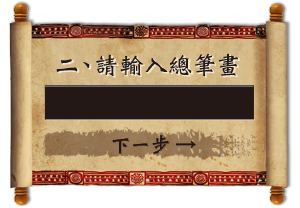
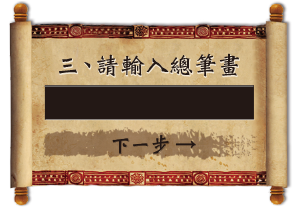
將總筆劃與需要的部件二者順序交換

Changed region(s): [[0.27, 0.2596, 0.81, 0.375], [0.18, 0.2596, 0.27, 0.375]]

diff --git a/kangxi.js b/kangxi.js
@@ -223,12 +223,41 @@ $( document ).ready(function() {
 			show_msg(1);
 			$("#page1").hide();
 			$("#page2").show();
-			$("#input_number").focus();
-			$("#input_number").attr("placeholder","");
+			$("#input_name2").focus();
+			$("#input_name2").attr("placeholder","取單名想請按下一步");
 			active_page = 2;
 			return false;
 	});
 	$("#form2").submit(
+		function() {
+			name2 = $("#input_name2").val();
+			if(name2 == "")
+			{
+				// 沒有第二個字也是可以的
+				num2 = 0;
+			}
+			else
+			{
+				num2 = get_name_num(name2);
+				if(num2 == 0)
+				{
+					show_msg(9);
+					$("#input_name2").val("");
+					$("#input_name2").attr("placeholder","有字不在資料庫中");
+					$("#input_name2").focus();
+					return false;
+				}
+			}
+			
+			$("#page2").hide();
+			$("#page3").show();
+			show_msg(1);
+			$("#input_number").attr("placeholder","");
+			$("#input_number").focus();
+			active_page = 3;
+			return false;
+	});
+	$("#form3").submit(
 		function() {
 			number = $("#input_number").val();
 			if($.isNumeric(number) == false || Math.round(number) != number)
@@ -239,6 +268,7 @@ $( document ).ready(function() {
 				$("#input_number").focus();
 				return false;
 			}
+			
 			/* 因為字數可以不只一個, 所以數字就無法預先判斷範圍了
 			if(number <= num1 + 1)
 			{
@@ -265,34 +295,7 @@ $( document ).ready(function() {
 				return false;
 			}
 			*/
-			$("#page2").hide();
-			$("#page3").show();
-			show_msg(1);
-			$("#input_name2").attr("placeholder","");
-			$("#input_name2").focus();
-			active_page = 3;
-			return false;
-	});
-	$("#form3").submit(
-		function() {
-			name2 = $("#input_name2").val();
-			if(name2 == "")
-			{
-				// 沒有第二個字也是可以的
-				num2 = 0;
-			}
-			else
-			{
-				num2 = get_name_num(name2);
-				if(num2 == 0)
-				{
-					show_msg(9);
-					$("#input_name2").val("");
-					$("#input_name2").attr("placeholder","有字不在資料庫中");
-					$("#input_name2").focus();
-					return false;
-				}
-			}
+			
 			num3 = number - num1 - num2;
 			
 			// 81 是特例, num3 一定要是 number - num1 - num2
@@ -323,8 +326,8 @@ $( document ).ready(function() {
 			if(num3 > 30)
 			{
 				show_msg(9);
-				$("#input_name2").val("");
-				$("#input_name2").attr("placeholder","找不到適合的字");
+				$("#input_number").val("");
+				$("#input_number").attr("placeholder","此數字找不到適合的字");
 				return false;
 			}
 			
@@ -391,6 +394,9 @@ $( document ).ready(function() {
 	$("#menu_2").click(
 		function() {
 		  	// 上方鐵口直斷選單
+		  	$("#message").stop();				// 若是正在秀 "朕知道了" , 要中斷該動畫狀態
+		  	$("#message").css("opacity", 1);	
+		  	
 	  		$(".mainpage").hide();
 	  		show_page1();
 	});
@@ -409,6 +415,8 @@ $( document ).ready(function() {
 			draw_page7();
 	  		$(".mainpage").hide();
 			show_msg(0);
+			$("#page7").stop(false,true);	// 避免此按鈕重覆一直按會造成錯誤
+			$("#img_stick").stop(false,true);
 			show_animate($("#page7"));
 	  		active_page = 7;
 	  		return false;

diff --git a/index.html b/index.html
@@ -30,16 +30,16 @@
     <!-- page 2 ----------------------------------------------------- -->
 	<div id="page2" class="mainpage">
 		<form id="form2" name="form2" method="post" action="">
-			<img id="img_ask_number" src="image/ask_number.png"/>
-		    <input type="text" name="input_number" id="input_number" autofocus>
+			<img id="img_ask_name2" src="image/ask_name2.png"/>
+		    <input type="text" name="input_name2" id="input_name2" autofocus>
 		    <div id="page2_next"></div>
 		</form>
     </div>
-    <!-- page 3 ----------------------------------------------------- -->
+    <!-- page 2 ----------------------------------------------------- -->
 	<div id="page3" class="mainpage">
 		<form id="form3" name="form3" method="post" action="">
-			<img id="img_ask_name2" src="image/ask_name2.png"/>
-		    <input type="text" name="input_name2" id="input_name2" autofocus>
+			<img id="img_ask_number" src="image/ask_number.png"/>
+		    <input type="text" name="input_number" id="input_number" autofocus>
 		    <div id="page3_next"></div>
 		</form>
     </div>
